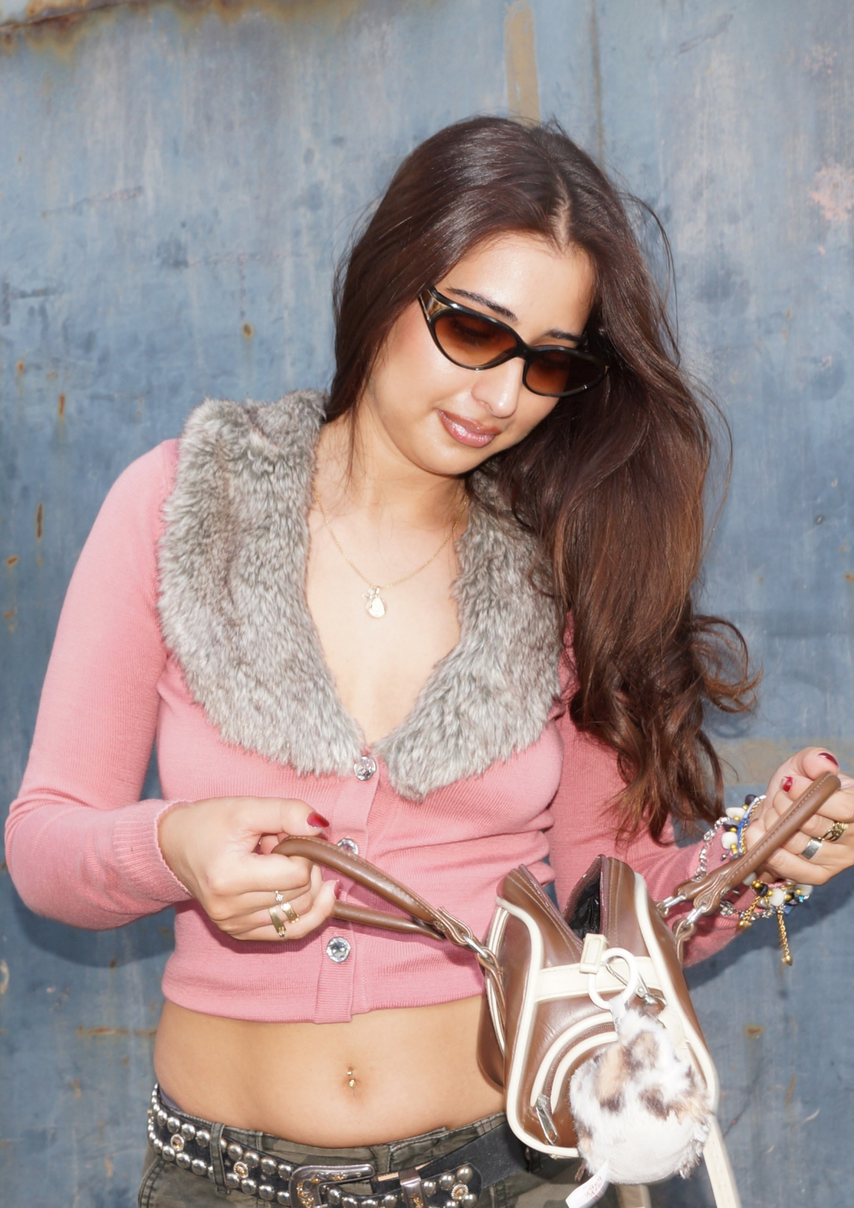
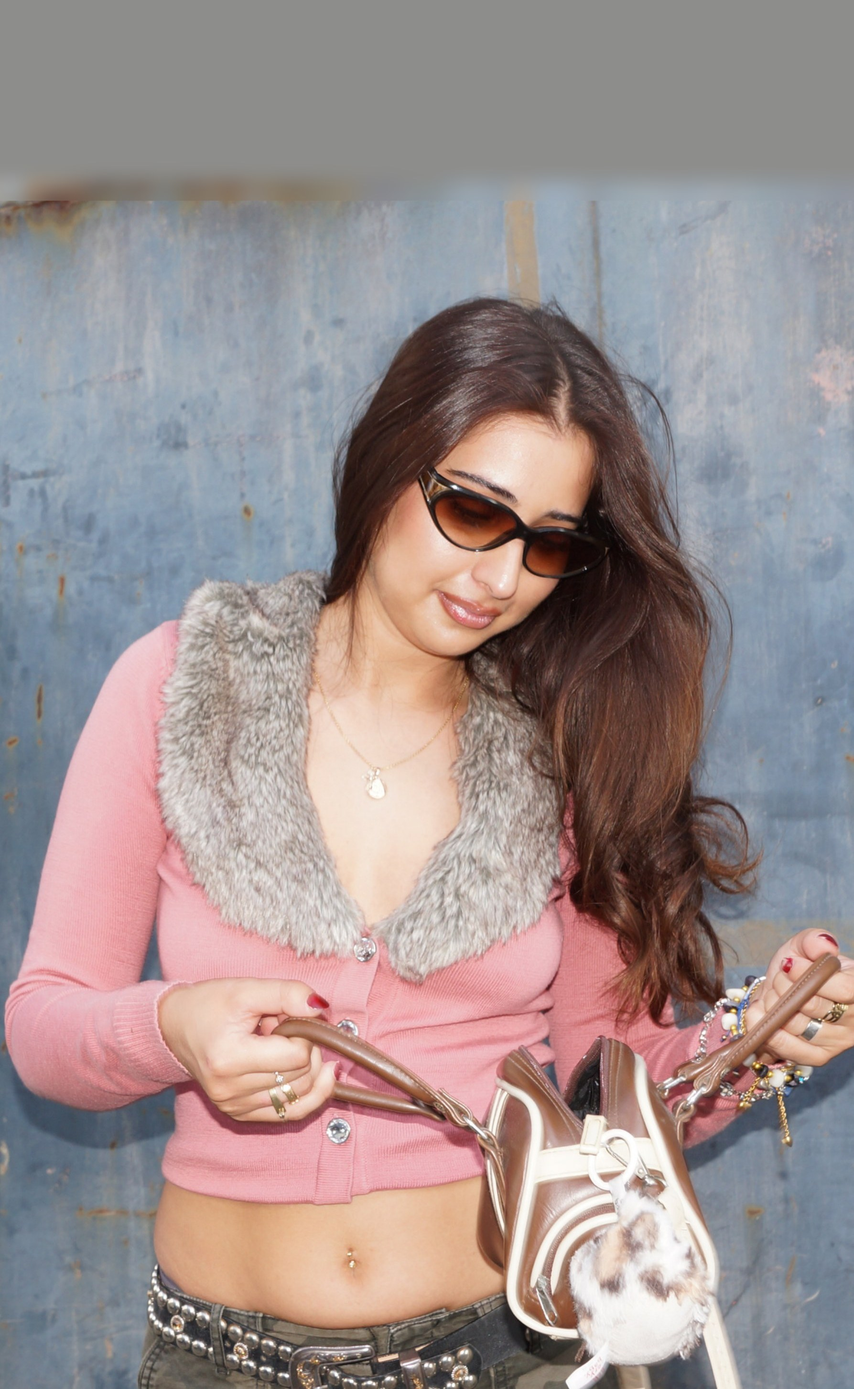
Corrige l'affichage et le cadrage de la photo mobile du hero
Root cause trouvée en comparant le DOM rendu au CSS compilé : dans
globals.css, `img { display: block; }` (hors des layers Tailwind)
bat toujours les classes "hidden"/"md:block" posées directement sur
un <Image>, quelle que soit la largeur d'écran (les styles hors-layer
gagnent sur les styles en layer, indépendamment de la spécificité).
Résultat : les deux stills (mobile et bureau) restaient affichés en
même temps, et c'est le desktop qui gagnait à l'écran -> aucune
modification apportée à mobile-hero.jpg n'avait d'effet visible,
d'où le mauvais cadrage rapporté. Fix : le toggle "hidden md:block"
passe sur un <div> englobant (jamais visé par la règle globale sur
`img`), qui masque correctement son <Image> enfant.

Ajout aussi de ~380px de marge (couleur du mur, dégradée) en haut de
mobile-hero.jpg : la tête arrivait pile sous le bandeau
d'annonce+navigation (opaque, ~102px), sans air. Avec le fix
d'affichage ci-dessus, on voit maintenant que la marge fonctionne :
tête et lunettes bien dégagées, sujet centré.

Vérifié en local à plusieurs hauteurs mobiles (852px, 720px, 667px)
et en desktop (1440x900, non affecté) via Playwright.

Claude-Session: https://claude.ai/code/session_01KVTwrRu2LTzK6G4AZMGzu5

diff --git a/src/components/home/hero-camcorder.tsx b/src/components/home/hero-camcorder.tsx
@@ -183,22 +183,24 @@ export function HeroCamcorder() {
            déjà centré) qui garde toute la hauteur de la photo au lieu de la
            rogner. */}
       <div aria-hidden className="absolute inset-0">
-        <Image
-          src={HERO_STILL_MOBILE}
-          alt=""
-          fill
-          priority
-          sizes="100vw"
-          className="block object-cover object-center md:hidden"
-        />
-        <Image
-          src={HERO_STILL}
-          alt=""
-          fill
-          priority
-          sizes="100vw"
-          className="hidden object-cover object-center md:block"
-        />
+        {/* Le toggle mobile/bureau vit sur ces `<div>`, jamais directement sur
+            l'`<Image>` : `img{display:block}` (globals.css, hors des layers
+            Tailwind) bat "hidden"/"md:block" posées sur un `<img>` quelle que
+            soit la largeur d'écran, les deux photos restaient affichées en
+            même temps. */}
+        <div className="absolute inset-0 block md:hidden">
+          <Image
+            src={HERO_STILL_MOBILE}
+            alt=""
+            fill
+            priority
+            sizes="100vw"
+            className="object-cover object-center"
+          />
+        </div>
+        <div className="absolute inset-0 hidden md:block">
+          <Image src={HERO_STILL} alt="" fill priority sizes="100vw" className="object-cover object-center" />
+        </div>
 
         <video
           className="absolute inset-0 h-full w-full object-cover object-[64%_center] transition-opacity duration-700 md:object-center"
